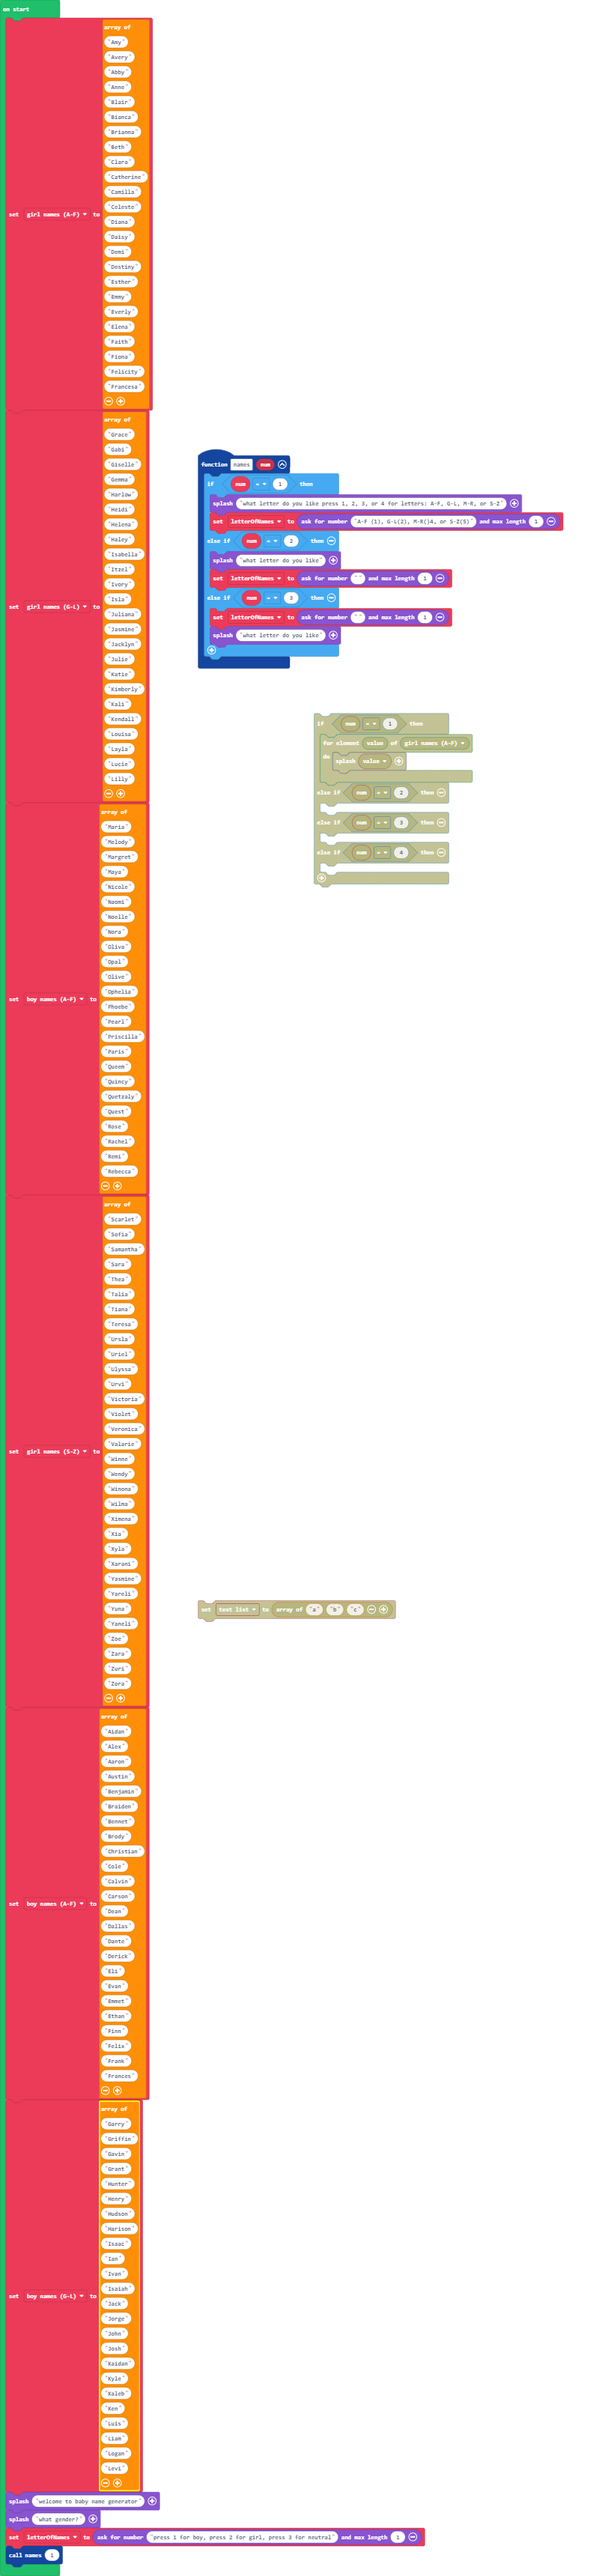
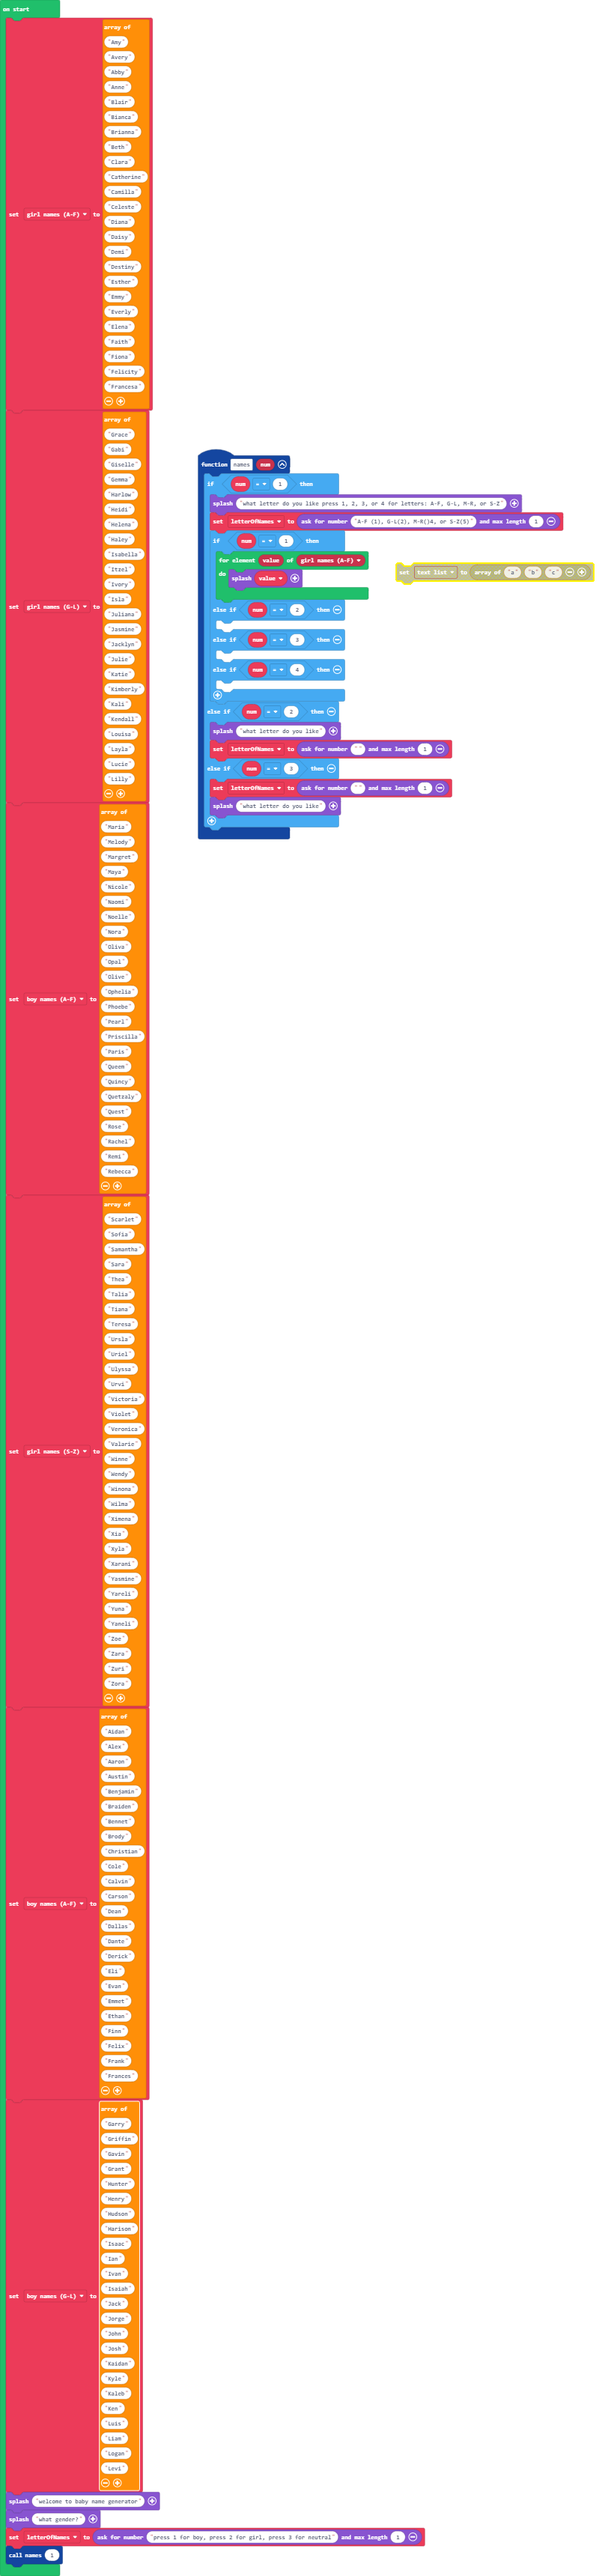
Update main.blocks, main.ts

Changed region(s): [[0.3109, 0.1866, 0.995, 0.3422], [0.342, 0.6221, 0.653, 0.6532]]

diff --git a/main.ts b/main.ts
@@ -2,6 +2,17 @@ function names (num: number) {
     if (num == 1) {
         game.splash("what letter do you like press 1, 2, 3, or 4 for letters: A-F, G-L, M-R, or S-Z")
         letterOfNames = game.askForNumber("A-F (1), G-L(2), M-R()4, or S-Z(5)", 1)
+        if (num == 1) {
+            for (let value of girl_names_AF) {
+                game.splash(value)
+            }
+        } else if (num == 2) {
+        	
+        } else if (num == 3) {
+        	
+        } else if (num == 4) {
+        	
+        }
     } else if (num == 2) {
         game.splash("what letter do you like")
         letterOfNames = game.askForNumber("", 1)
@@ -11,7 +22,8 @@ function names (num: number) {
     }
 }
 let letterOfNames = 0
-let girl_names_AF = [
+let girl_names_AF: string[] = []
+girl_names_AF = [
 "Amy",
 "Avery",
 "Abby",
